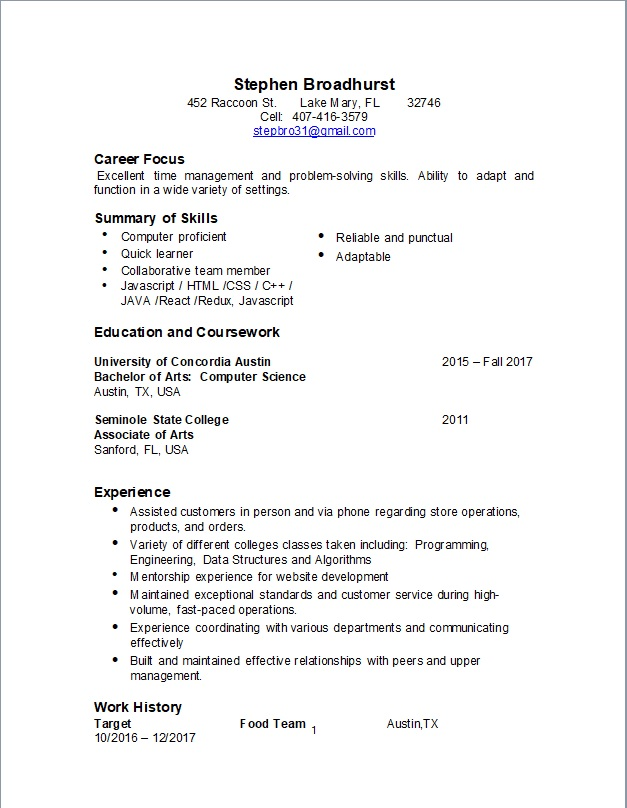
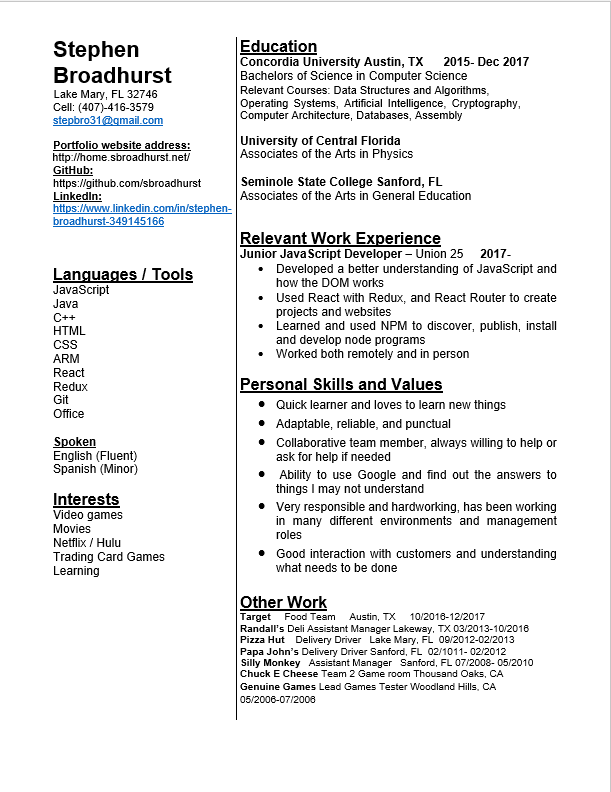
updared resume image and link

Changed region(s): [[0.0622, 0.0303, 0.9329, 0.9394], [0.9951, 0.0, 1.0, 1.0], [0.0, 0.0, 0.0311, 0.0303]]

diff --git a/src/components/Resume.js b/src/components/Resume.js
@@ -25,7 +25,7 @@ class Resume extends React.Component {
             <p style={style.heading}>
               View Resume or{' '}
               <a
-                href="https://drive.google.com/file/d/1ZH6tNfHd_k1QpSWuDEsf2-i9ITTv2a7L/view?usp=sharing"
+                href="https://drive.google.com/file/d/1Xw83UH5569oX1lVeeCbtlVukQDsRaqlO/view?"
                 target="_blank"
                 rel="noopener noreferrer"
               >
